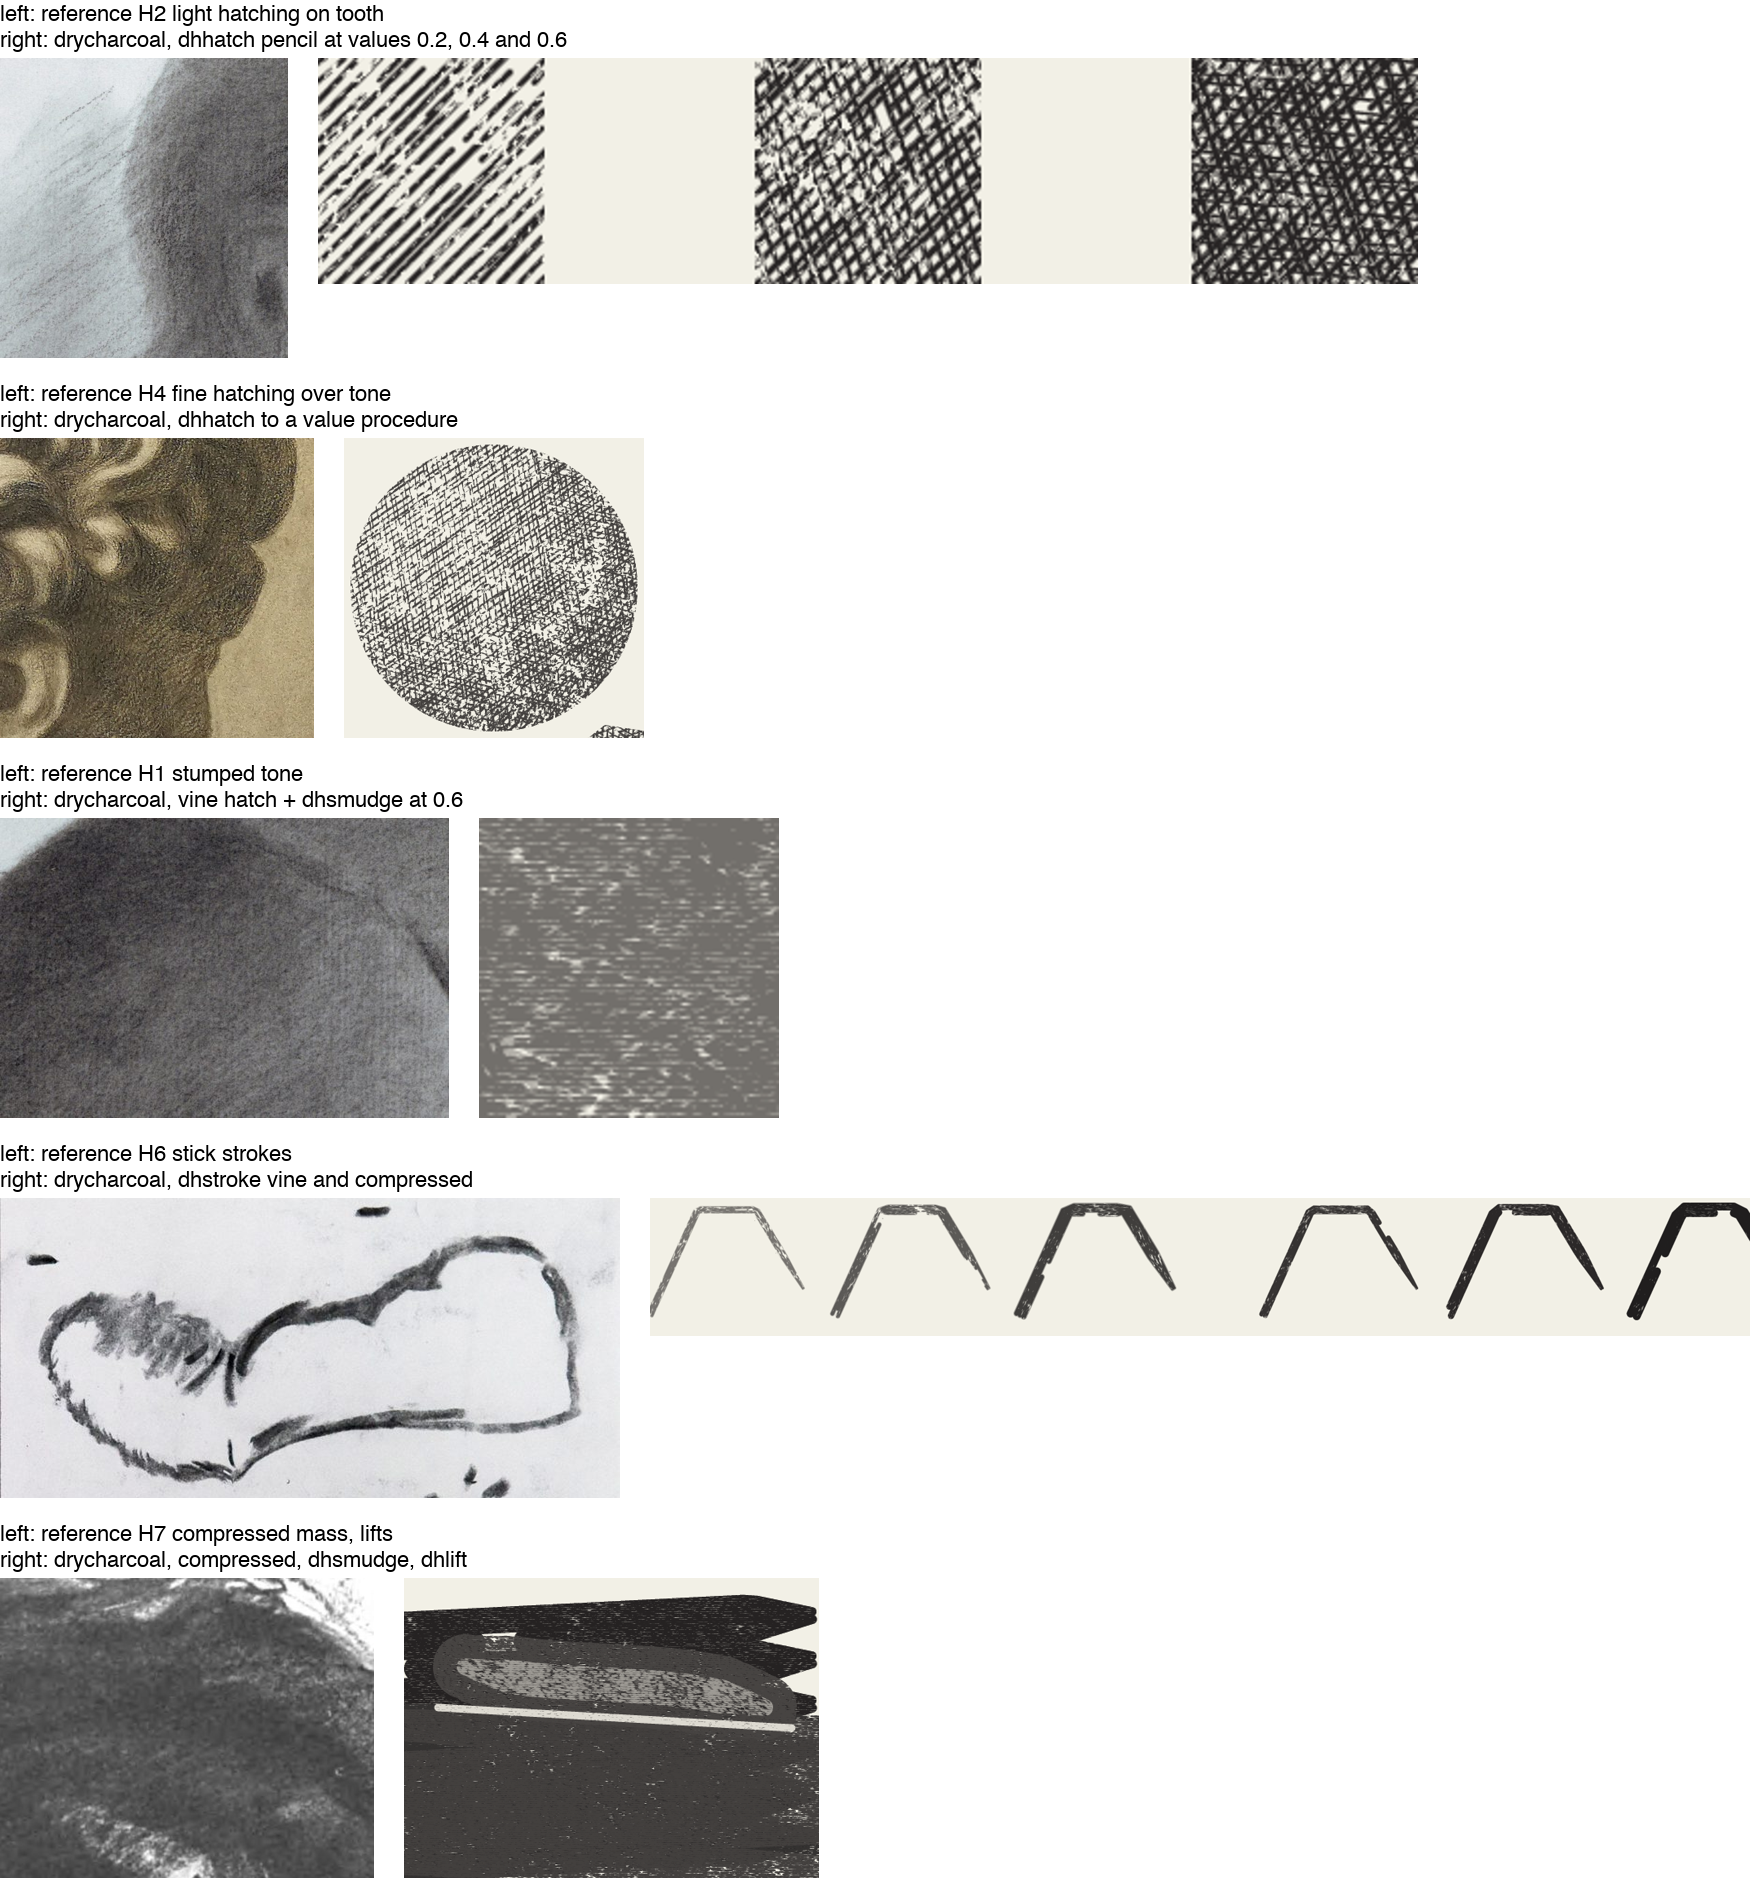
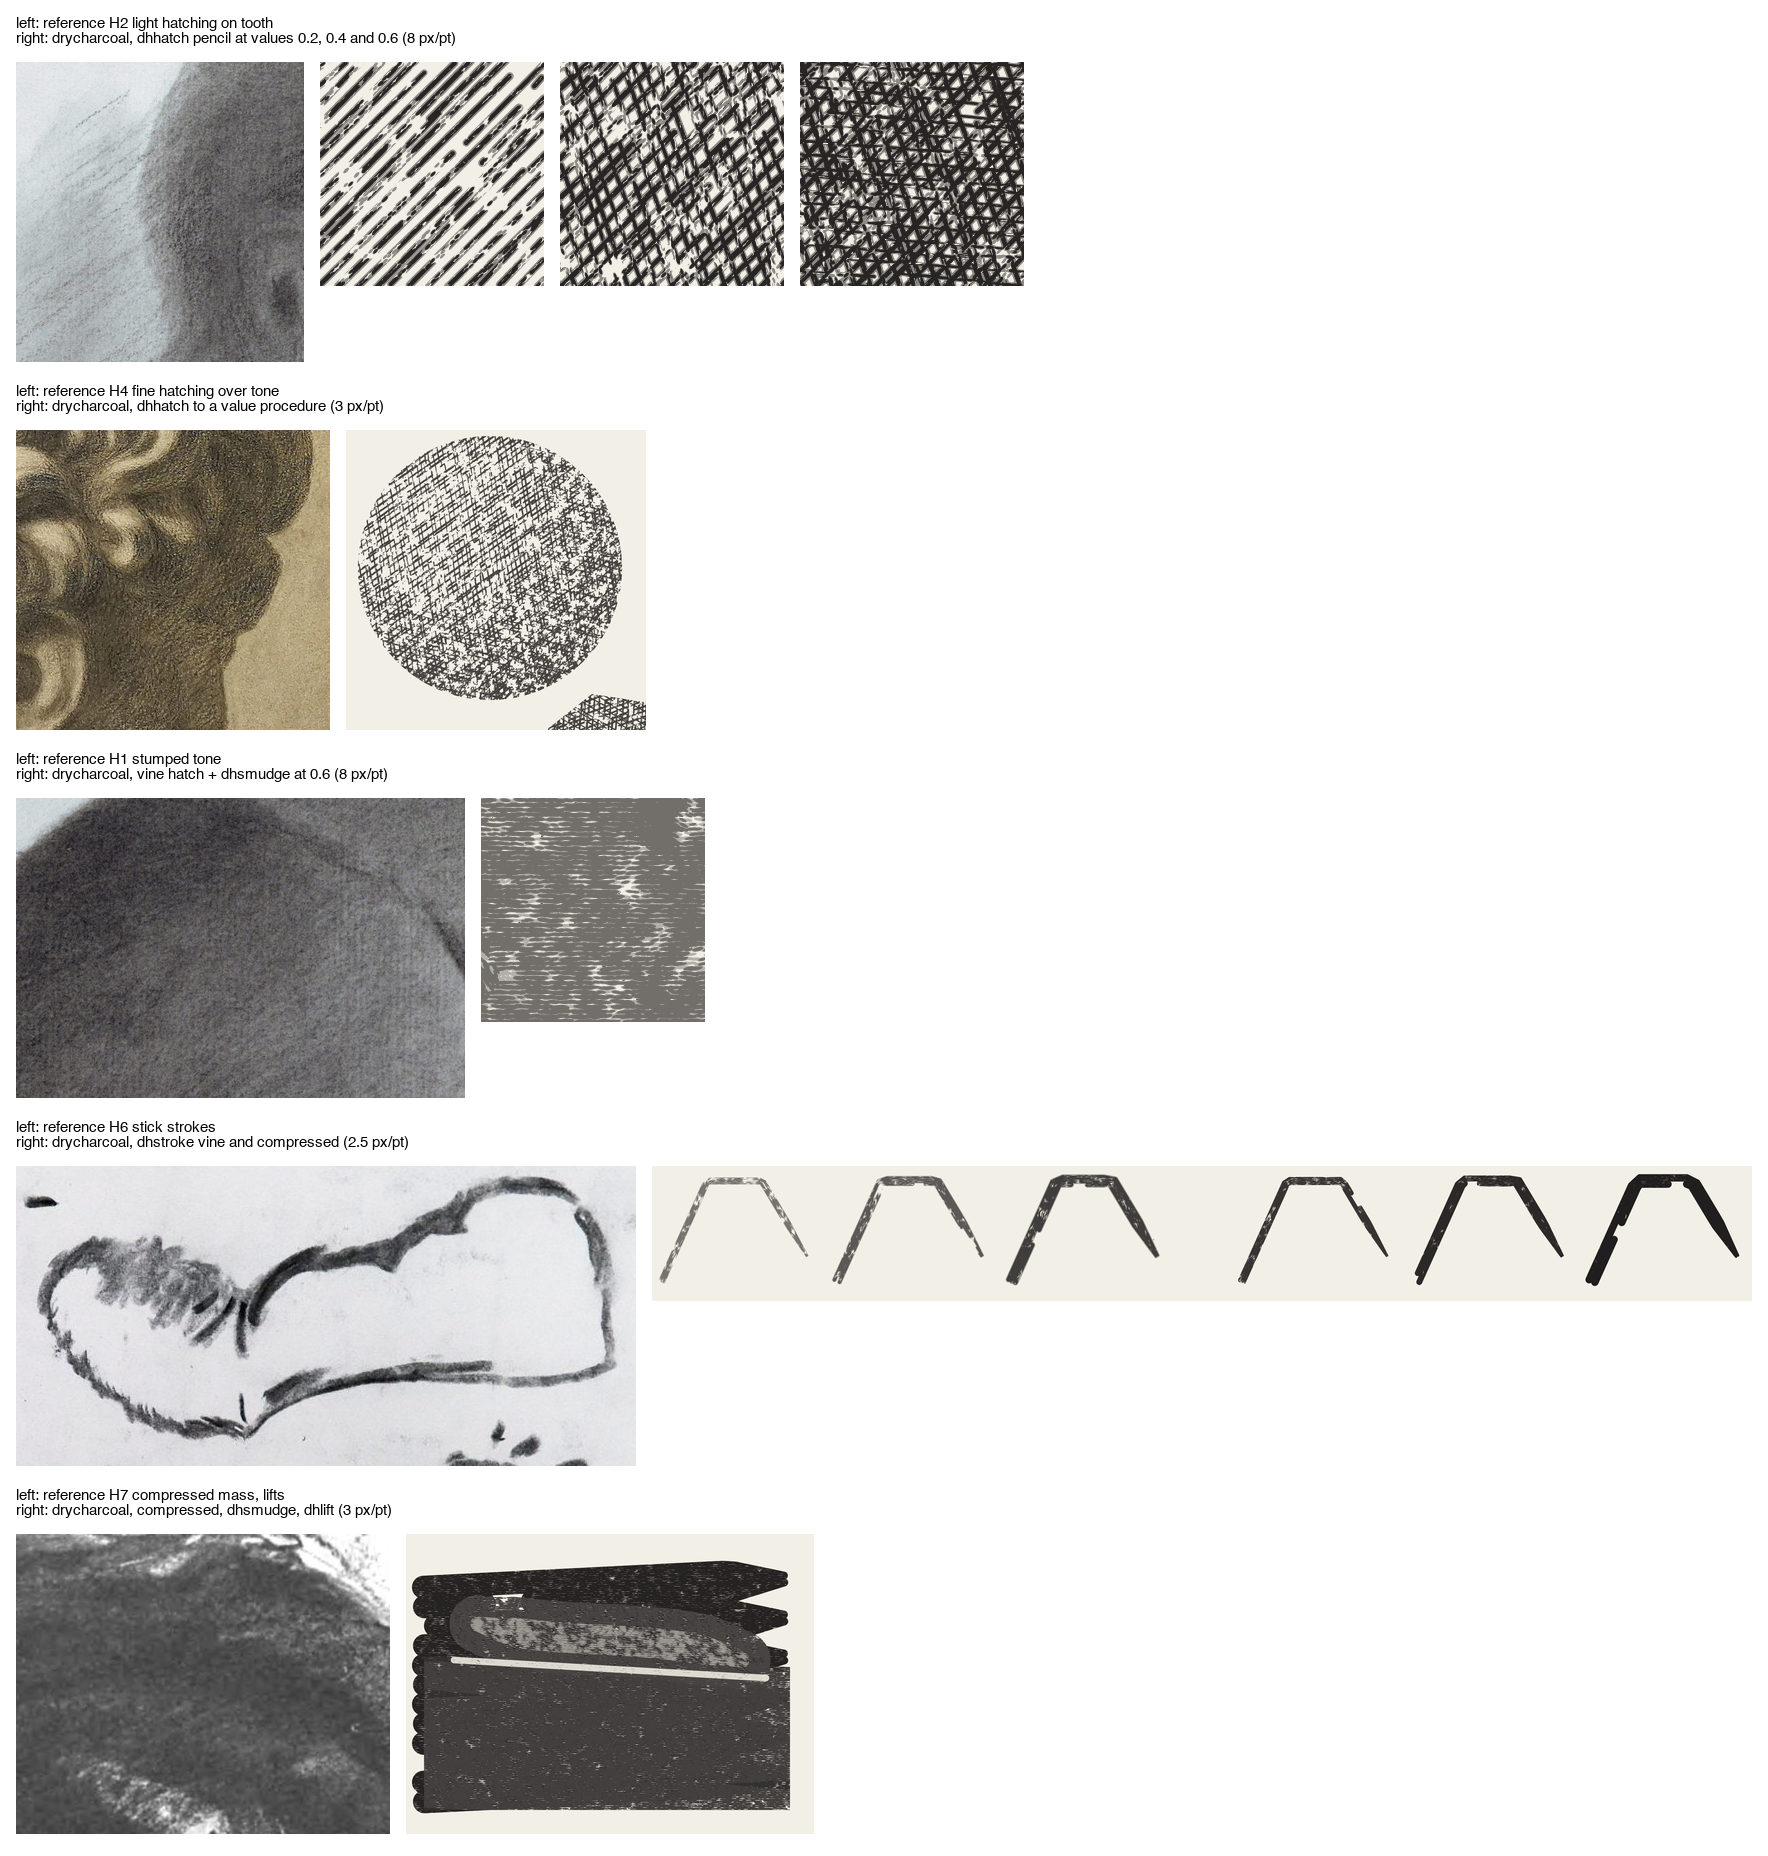
docs: rebuild drycharcoal_refs_compare.png with a committed script (#418) (#482)
* docs: rebuild drycharcoal_refs_compare.png with a committed script (#418)

New prototypes/drycharcoal_refs_compare.py crops the current drycharcoal specimen
(576 dpi) beside the five reference crops; the panel is regenerated, showing the
post-#313 paper. REFERENCES.md names the script; notes/418 has before/after.

Claude-Session: https://claude.ai/code/session_01GTbCLDB6QC7UV1i7qukUEL

* notes: 418 wording

Claude-Session: https://claude.ai/code/session_01GTbCLDB6QC7UV1i7qukUEL

---------

Changed region(s): [[0.0, 0.0, 0.8331, 1.0], [0.7097, 0.625, 1.0, 0.7188]]

diff --git a/docs/dev/design/drymedia/prototypes/drycharcoal_refs_compare.py b/docs/dev/design/drymedia/prototypes/drycharcoal_refs_compare.py
@@ -1,0 +1,137 @@
+"""Build docs/dev/design/drymedia/drycharcoal_refs_compare.png for #241 (rebuilt in #418):
+five real charcoal references, each beside a crop of examples/drycharcoal_specimen.ps.
+
+    cargo build --release --bin pscat
+    python3 docs/dev/design/drymedia/prototypes/drycharcoal_refs_compare.py   # from the repo root
+
+The specimen is rendered once, at 576 dpi (8 px per point), and the right-hand
+crops are cut from that render in the specimen's own point coordinates (the
+CROP_* boxes below are the `.ps` source's, before its `0 -70 translate`), so
+the panel always shows the current specimen, whatever the paper. A cell the
+size of one hatch square (28 pt, 224 px) is pasted at its native 8 px/pt; the
+larger crops are scaled down (LANCZOS), the factor stated in each
+caption as px/pt. Left-hand crops are the references in
+docs/dev/design/drymedia/refs/ (see REFERENCES.md), scaled to a 300 px row
+(H6, a tall sheet of three contour studies, is cut to its middle one).
+
+Rows: H2 light hatching (pencil hatch at values 0.2, 0.4, 0.6), H4 fine
+hatching (the sphere hatched to a value procedure), H1 stumped tone (vine
+hatch smudged to 0.6), H6 stick strokes (vine and compressed dhstroke), H7
+compressed mass (smudge, kneaded and hard lifts).
+"""
+import subprocess
+import sys
+import tempfile
+from PIL import Image, ImageDraw, ImageFont
+
+BIN = "target/release/pscat"
+SPECIMEN = "examples/drycharcoal_specimen.ps"
+REFS = "docs/dev/design/drymedia/refs/"
+OUT = "docs/dev/design/drymedia/drycharcoal_refs_compare.png"
+
+PAGE_W, PAGE_H = 720, 490      # the specimen's %%BoundingBox
+SHIFT = 70                     # its `0 -70 translate`
+DPI = 576
+PX = DPI // 72                 # 8 px per point
+ROW_H = 300                    # height of a reference crop
+PAD, CAP = 16, 26
+
+
+def spec_box(x0, y0, x1, y1):
+    """A box in the specimen's source coordinates (y up, before the -70 shift)
+    as a PIL box on the render (y down)."""
+    return (x0 * PX, (PAGE_H - (y1 - SHIFT)) * PX,
+            x1 * PX, (PAGE_H - (y0 - SHIFT)) * PX)
+
+
+def cells(col0, i0, i1):
+    """The 28 pt value-scale cells i0..i1 of the scale whose column starts at col0."""
+    return [spec_box(col0 + 54 * i, 348, col0 + 54 * i + 28, 376) for i in range(i0, i1 + 1)]
+
+
+# (reference file, reference crop box or None, caption, specimen boxes, px per point of the
+# specimen crops)
+ROWS = [
+    ("charcoal_hatching_on_tone.jpg", None,
+     "left: reference H2 light hatching on tooth",
+     "right: drycharcoal, dhhatch pencil at values 0.2, 0.4 and 0.6",
+     cells(24, 1, 3), 8),
+    ("charcoal_fine_hatching.jpg", None,
+     "left: reference H4 fine hatching over tone",
+     "right: drycharcoal, dhhatch to a value procedure",
+     [spec_box(58, 124, 158, 224)], 3),
+    ("charcoal_stumped_tone.jpg", None,
+     "left: reference H1 stumped tone",
+     "right: drycharcoal, vine hatch + dhsmudge at 0.6",
+     cells(380, 3, 3), 8),
+    ("charcoal_stick_strokes.jpg", (20, 330, 640, 630),
+     "left: reference H6 stick strokes",
+     "right: drycharcoal, dhstroke vine and compressed",
+     [spec_box(20, 420, 460, 474)], 2.5),
+    ("charcoal_compressed_mass.jpg", None,
+     "left: reference H7 compressed mass, lifts",
+     "right: drycharcoal, compressed, dhsmudge, dhlift",
+     [spec_box(280, 126, 416, 226)], 3),
+]
+
+
+def font(size):
+    for name in ("/System/Library/Fonts/Helvetica.ttc",
+                 "/usr/share/fonts/truetype/dejavu/DejaVuSans.ttf"):
+        try:
+            return ImageFont.truetype(name, size)
+        except OSError:
+            pass
+    return ImageFont.load_default()
+
+
+def render_specimen():
+    with tempfile.TemporaryDirectory() as d:
+        png = f"{d}/specimen.png"
+        subprocess.run([BIN, "--page", f"{PAGE_W}x{PAGE_H}", "--dpi", str(DPI), "--png", png, SPECIMEN],
+                       check=True, stdout=subprocess.DEVNULL)
+        return Image.open(png).convert("RGB")
+
+
+def scaled(im, factor):
+    if factor == 1:
+        return im
+    return im.resize((round(im.width * factor), round(im.height * factor)), Image.LANCZOS)
+
+
+def main():
+    spec = render_specimen()
+    if spec.size != (PAGE_W * PX, PAGE_H * PX):
+        sys.exit(f"unexpected render size {spec.size}")
+    panels = []
+    for ref_file, ref_box, cap1, cap2, boxes, ppp in ROWS:
+        ref = Image.open(REFS + ref_file).convert("RGB")
+        if ref_box:
+            ref = ref.crop(ref_box)
+        else:
+            ref = ref.resize((round(ref.width * ROW_H / ref.height), ROW_H), Image.LANCZOS)
+        crops = [scaled(spec.crop(b), ppp / PX) for b in boxes]
+        panels.append((ref, crops, cap1, f"{cap2} ({ppp:g} px/pt)"))
+
+    width = max(ref.width + sum(c.width + PAD for c in crops) for ref, crops, _, _ in panels) + 2 * PAD
+    row_hs = [max([ref.height] + [c.height for c in crops]) for ref, crops, _, _ in panels]
+    height = PAD + sum(2 * CAP + h + PAD for h in row_hs)
+    img = Image.new("RGB", (width, height), "white")
+    dr = ImageDraw.Draw(img)
+    f = font(15)
+    y = PAD
+    for (ref, crops, cap1, cap2), h in zip(panels, row_hs):
+        dr.text((PAD, y), cap1, fill="black", font=f)
+        dr.text((PAD, y + CAP // 2 + 2), cap2, fill="black", font=f)
+        y += 2 * CAP - 6
+        img.paste(ref, (PAD, y))
+        x = PAD + ref.width + PAD
+        for c in crops:
+            img.paste(c, (x, y))
+            x += c.width + PAD
+        y += h + PAD + 6
+    img.save(OUT, optimize=True)
+    print(OUT, img.size)
+
+
+main()

diff --git a/notes/418-drycharcoal-refs-compare.md b/notes/418-drycharcoal-refs-compare.md
@@ -1,0 +1,42 @@
+## drycharcoal_refs_compare.png rebuilt from a committed script (issue #418, 2026-10-14)
+
+**Problem.** `docs/dev/design/drymedia/drycharcoal_refs_compare.png` (#241) had no
+build recipe in the repo, and after #313 changed `/drawing` paper's mottle its
+right-hand crops (H2, H4 rows above all) showed the old, patchy surface. The
+#241 crops were at about 8 px per point with a finer grain than a 576 dpi pscat
+render, so the old file could not be reproduced.
+
+**Change.** New `docs/dev/design/drymedia/prototypes/drycharcoal_refs_compare.py`,
+in the shape of `mottle_compare_313.py`. It renders `examples/drycharcoal_specimen.ps`
+once at 576 dpi (8 px/pt) and crops it in the specimen's own point coordinates
+(the `.ps` source's, before its `0 -70 translate`), so a change to the specimen
+or to drykit only needs a re-run. The five rows and their media are the old panel's:
+
+| Row | Reference crop | Specimen crop | px/pt |
+|---|---|---|---|
+| H2 | `charcoal_hatching_on_tone` | the pencil hatch cells at values 0.2, 0.4, 0.6 | 8 (native) |
+| H4 | `charcoal_fine_hatching` | the sphere hatched to a value procedure | 3 |
+| H1 | `charcoal_stumped_tone` | the smudge cell at 0.6 | 8 (native) |
+| H6 | `charcoal_stick_strokes`, its middle contour | vine and compressed `dhstroke` rows | 2.5 |
+| H7 | `charcoal_compressed_mass` | compressed mass, smudge, kneaded and hard lifts | 3 |
+
+The old panel mixed scales without saying so; each caption now states its px/pt.
+The three H2 cells are pasted side by side (the old panel kept the empty paper
+between them).
+
+**Faithfulness check.** The worktree's pscat at `--dpi 144` is pixel-identical (RGB) to the
+committed `drycharcoal_specimen.png`, and the 576 dpi render, box-
+downsampled to 144 dpi, differs from it by a mean of 0.56 of 255 per channel, so
+the crops show the approved look at a finer sampling, not a different one.
+
+**Before and after.**
+- before: `docs/dev/design/drymedia/drycharcoal_refs_compare.png` at `origin/main`
+  (1750 x 1900, crops of the pre-#313 specimen)
+- after: the same path, 1768 x 1856, from the script above. H2 and H4 now show the
+  finer speckle of `/Mottle 1.5`.
+- reference crops are unchanged.
+
+Not changed: `lib/`, `src/`, the specimen or any gallery render.
+`docs/dev/design/drymedia/REFERENCES.md` gains a line naming the script and the
+panel's licence (it includes H6, CC BY-SA 4.0). Historical notes (#241, #313)
+still say the panel had no recipe; they are left as written.

diff --git a/docs/dev/design/drymedia/REFERENCES.md b/docs/dev/design/drymedia/REFERENCES.md
@@ -64,6 +64,13 @@ study and the H2 crop. All the sources are public domain, so the panel is
 too, apart from pscat's own render. `prototypes/lincoln_compare.py`
 builds it.
 
+`drycharcoal_refs_compare.png` (#241, rebuilt in #418) puts five of the
+crops above (H1, H2, H4, H6, H7) beside crops of the current
+`examples/drycharcoal_specimen.ps`. `prototypes/drycharcoal_refs_compare.py`
+builds it. It includes `charcoal_stick_strokes` (H6), so the panel is CC BY-SA 4.0
+under that source's attribution (Tom Berlangero); the other four crops are public
+domain.
+
 These sources were viewed but no crop is committed. One is not free to
 reuse; the others add nothing the crops above lack:
 
